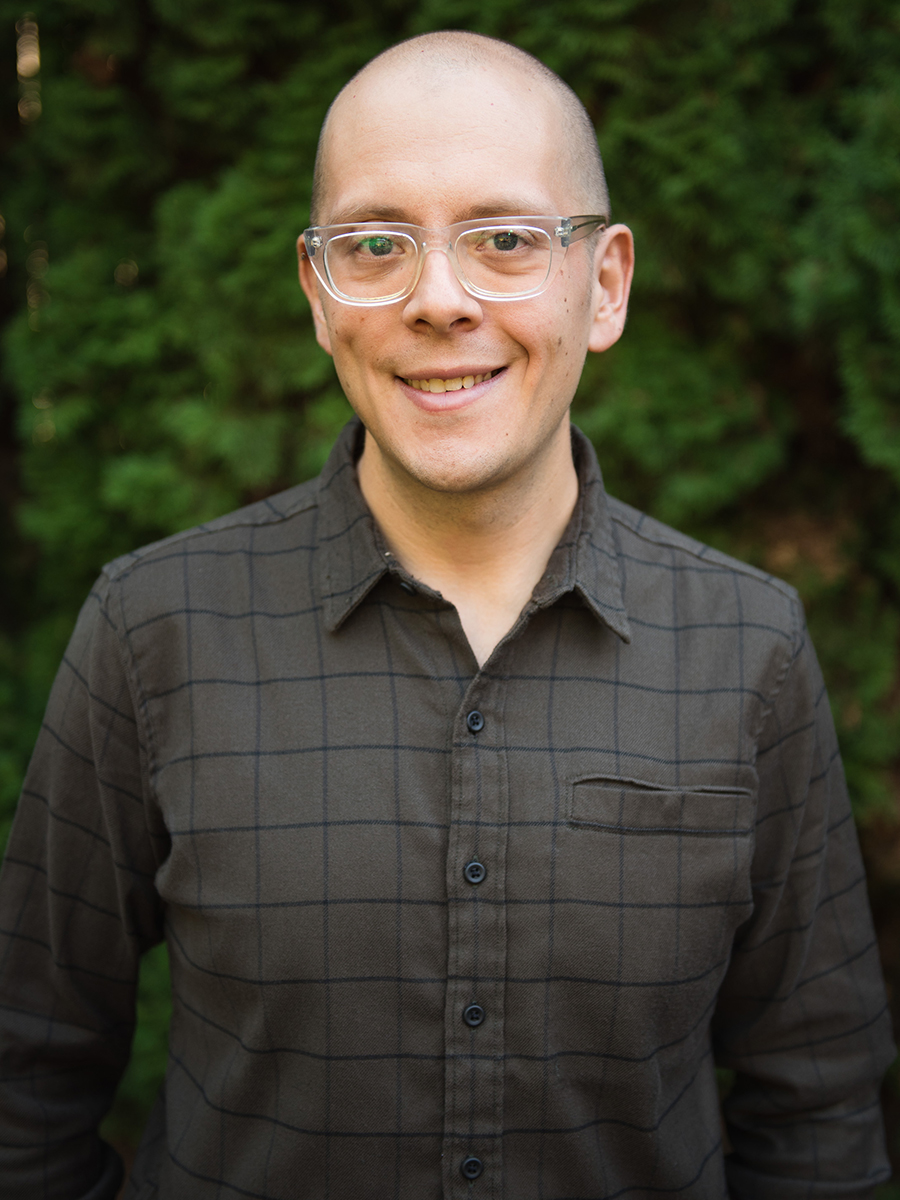
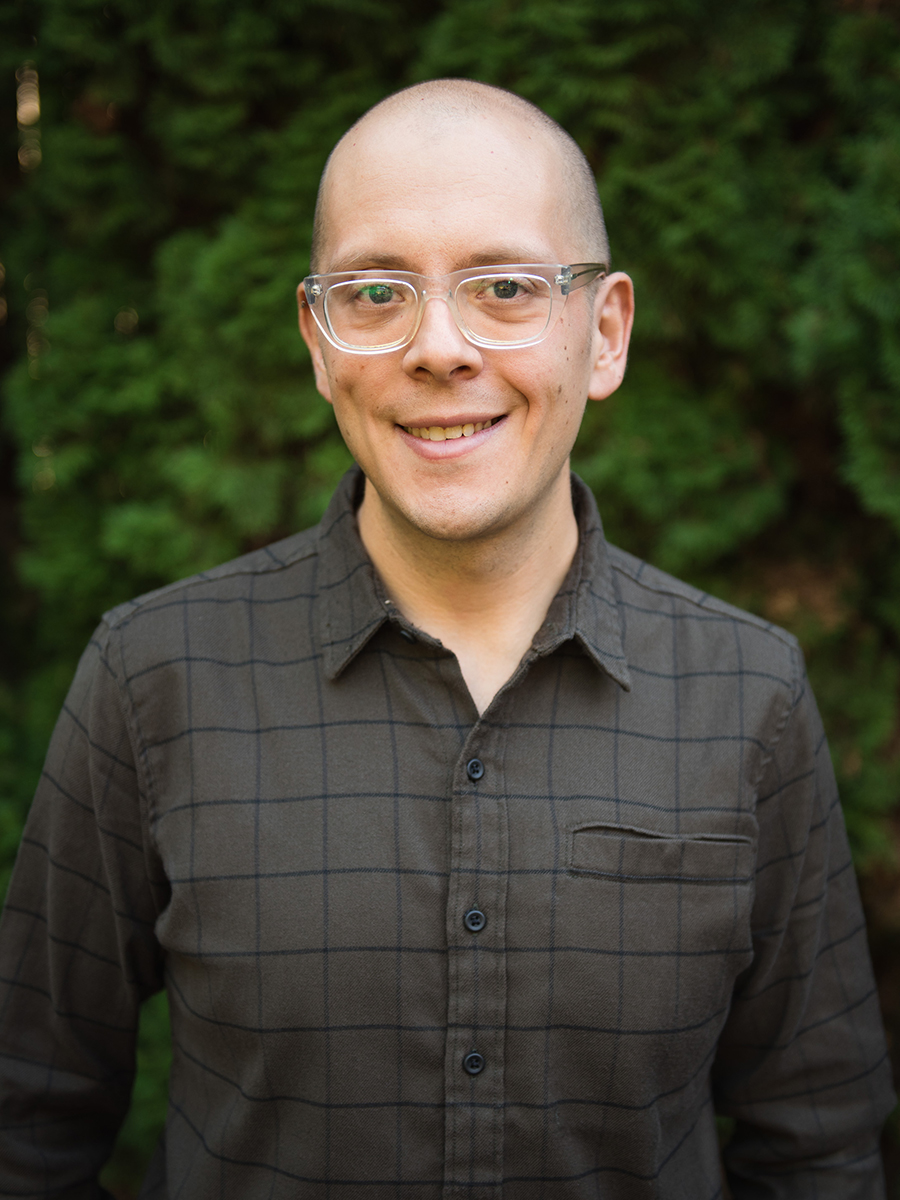
Updated Max pic and added edit instructions.

diff --git a/media.html b/media.html
@@ -82,30 +82,72 @@
 					</p>
 				</div>
 				<div class="row col-12">
+
+					<!-- 
+						~~ COPY AND PASTE THE 8 LINES OF CODE INTO ONE OF THE PROJECT SECTIONS ~~
+
+						STUDY_NO = all relevant studies, just the number, spelled out, all lowercase
+						AUTHOR = all relevant authors, just the last name, all lowercase
+						FILENAME.jpg = always save images as jpg, always put in images folder, do not include spaces, case sensitive
+						DESCRIPTION OF IMAGE = 3-7 words, desribe the photo
+						URL_OF_PROJECT = place full URL, replace with # if no URL
+						NAME OF PROJECT = proper name of project/paper/presentation
+						
+					-->
+					<!--
+					
+					<div class="col-sm-4">
+						<div class="column STUDY_NO AUTHOR"> 
+							<div class="content">
+								<img src="images/FILENAME.jpg" alt="DESCRIPTION OF IMAGE" style="width:100%">
+								<h4><a href="URL_OF_PROJECT" target="_blank">NAME OF PROJECT</a></h4>
+							</div>
+						</div>
+					</div>
+
+					-->
+
+					<!-- FIRST MEDIA -->
 					<div class="col-sm-4">
 						<div class="column three foxman">
 							<div class="content for-modal">
 								<img src="images/elephant.jpg" alt="vritual meetings fatigue" style="width:100%">
-								<h4>Maxwell Foxman examines "The Elephant in the Zoom"</h4>
+								<h4><a href="https://around.uoregon.edu/content/maxwell-foxman-examines-elephant-zoom" target="_blank">Maxwell Foxman examines "The Elephant in the Zoom"</a></h4>
 							</div>
 						</div>
 					</div>
+
+					<!-- SECOND MEDIA -->
+
 					<div class="col-sm-4">
 						<div class="column other ratan">
 							<div class="content">
 								<img src="images/marketplace.jpg" alt="beyond genre" style="width:100%">
-								<h4>Is this what the “metaverse” looks like?</h4>
+								<h4><a href="https://www.marketplace.org/2022/06/01/is-this-what-the-metaverse-looks-like/" target="_blank">Is this what the “metaverse” looks like?</a></h4>
 							</div>
 						</div>
 					</div>
+
+					<!-- THIRD MEDIA -->
+
 					<div class="col-sm-4">
 						<div class="column other ratan">
 							<div class="content">
 								<img src="images/abcnews.jpg" alt="playing at work" style="width:100%">
-								<h4>How the metaverse could impact the world and the future of technology</h4>
+								<h4><a href="https://abcnews.go.com/Technology/metaverse-impact-world-future-technology/story?id=82519587" target="_blank">How the metaverse could impact the world and the future of technology</a></h4>
 							</div>
 						</div>
 					</div>
+					
+					<!-- FOURTH MEDIA -->
+
+
+					<!-- FIFTH MEDIA -->
+					
+
+					<!-- SIXTH MEDIA -->
+					
+					
 				</div>
 			</div>
 		</div>

diff --git a/team.html b/team.html
@@ -69,7 +69,7 @@
 						<div class="team">
 							<a href="https://scholar.google.com/citations?user=jE9vLG0AAAAJ&hl=en&oi=sra" target="_blank">
 								<figure>
-									<img src="images/ratan.jpg" alt="">
+									<img src="images/ratan.jpg" alt="Robby Ratan, MSU">
 									<figcaption>
 										<h5>Robby Ratan</h5>
 										<small>Michigan State University</small>
@@ -82,7 +82,7 @@
 						<div class="team">
 							<a href="https://scholar.google.com/citations?hl=en&user=qllCRvcAAAAJ" target="_blank">
 								<figure>
-									<img src="images/mfoxman.jpg" alt="">
+									<img src="images/foxman.jpg" alt="Maxwell Foxman, UO">
 									<figcaption>
 										<h5>Max Foxman</h5>
 										<small>University of Oregon</small>
@@ -95,7 +95,7 @@
 						<div class="team">
 							<a href="https://scholar.google.com/citations?hl=en&user=fCWFNPcAAAAJ" target="_blank">
 								<figure>
-									<img src="images/leith.jpg" alt="">
+									<img src="images/leith.jpg" alt="Alex P Leith, SIUE">
 									<figcaption>
 										<h5>Alex P. Leith</h5>
 										<small>SIU Edwardsville</small>
@@ -108,7 +108,7 @@
 						<div class="team">
 							<a href="https://scholar.google.com/citations?user=9n26OV8AAAAJ&hl=en" target="_blank">
 								<figure>
-									<img src="images/beyea.jpg" alt="">
+									<img src="images/beyea.jpg" alt="David Beyea, UW-W">
 									<figcaption>
 										<h5>David Beyea</h5>
 										<small>UW-Whitewater</small>
@@ -121,7 +121,7 @@
 						<div class="team">
 							<a href="https://scholar.google.com/citations?hl=en&user=bw5My48AAAAJ" target="_blank">
 								<figure>
-									<img src="images/winn.jpg" alt="">
+									<img src="images/winn.jpg" alt="Brian Winn, MSU">
 									<figcaption>
 										<h5>Brian Winn</h5>
 										<small>Michigan State University</small>
@@ -134,7 +134,7 @@
 						<div class="team">
 							<a href="https://scholar.google.com/citations?hl=en&user=IllkELIAAAAJ" target="_blank">
 								<figure>
-									<img src="images/Klebig.jpg" alt="">
+									<img src="images/klebig.jpg" alt="Brian Klebig, BLC">
 									<figcaption>
 										<h5>Brian Klebig</h5>
 										<small>Bethany Lutheran College</small>

diff --git a/projects.html b/projects.html
@@ -82,6 +82,34 @@
 					</p>
 				</div>
 				<div class="row col-12">
+
+
+					<!-- 
+						~~ COPY AND PASTE THE 8 LINES OF CODE INTO ONE OF THE PROJECT SECTIONS ~~
+
+						STUDY_NO = all relevant studies, just the number, spelled out, all lowercase
+						AUTHOR = all relevant authors, just the last name, all lowercase
+						FILENAME.jpg = always save images as jpg, always put in images folder, do not include spaces, case sensitive
+						DESCRIPTION OF IMAGE = 3-7 words, desribe the photo
+						URL_OF_PROJECT = place full URL, replace with # if no URL
+						NAME OF PROJECT = proper name of project/paper/presentation
+						
+					-->
+					<!--
+					
+					<div class="col-sm-4">
+						<div class="column STUDY_NO AUTHOR"> 
+							<div class="content">
+								<img src="images/FILENAME.jpg" alt="DESCRIPTION OF IMAGE" style="width:100%">
+								<h4><a href="URL_OF_PROJECT" target="_blank">NAME OF PROJECT</a></h4>
+							</div>
+						</div>
+					</div>
+
+					-->
+
+					<!-- FIRST PROJECT -->
+
 					<div class="col-sm-4">
 						<div class="column two ratan">
 							<div class="content">
@@ -90,9 +118,9 @@
 							</div>
 						</div>
 					</div>
-					<!--
-						<div class="col-md-4"><div class="column one leith"><div class="content"><img src="images/make_me_feel.jpg" alt="make me feel" style="width:100%"><h4>Make me feel: Public expressions of play following VR play</h4></div></div></div>
-						-->
+					
+					<!-- SECOND PROJECT -->
+					
 					<div class="col-sm-4">
 						<div class="column other foxman beyea leith ratan klebig">
 							<div class="content">
@@ -101,6 +129,9 @@
 							</div>
 						</div>
 					</div>
+					
+					<!-- THIRD PROJECT -->
+					
 					<div class="col-sm-4">
 						<div class="column one three foxman leith beyea klebig ratan">
 							<div class="content">
@@ -109,6 +140,16 @@
 							</div>
 						</div>
 					</div>
+
+					<!-- FOURTH PROJECT -->
+
+
+					<!-- FIFTH PROJECT -->
+					
+
+					<!-- SIXTH PROJECT -->
+
+
 				</div>
 			</div>
 		</div>
